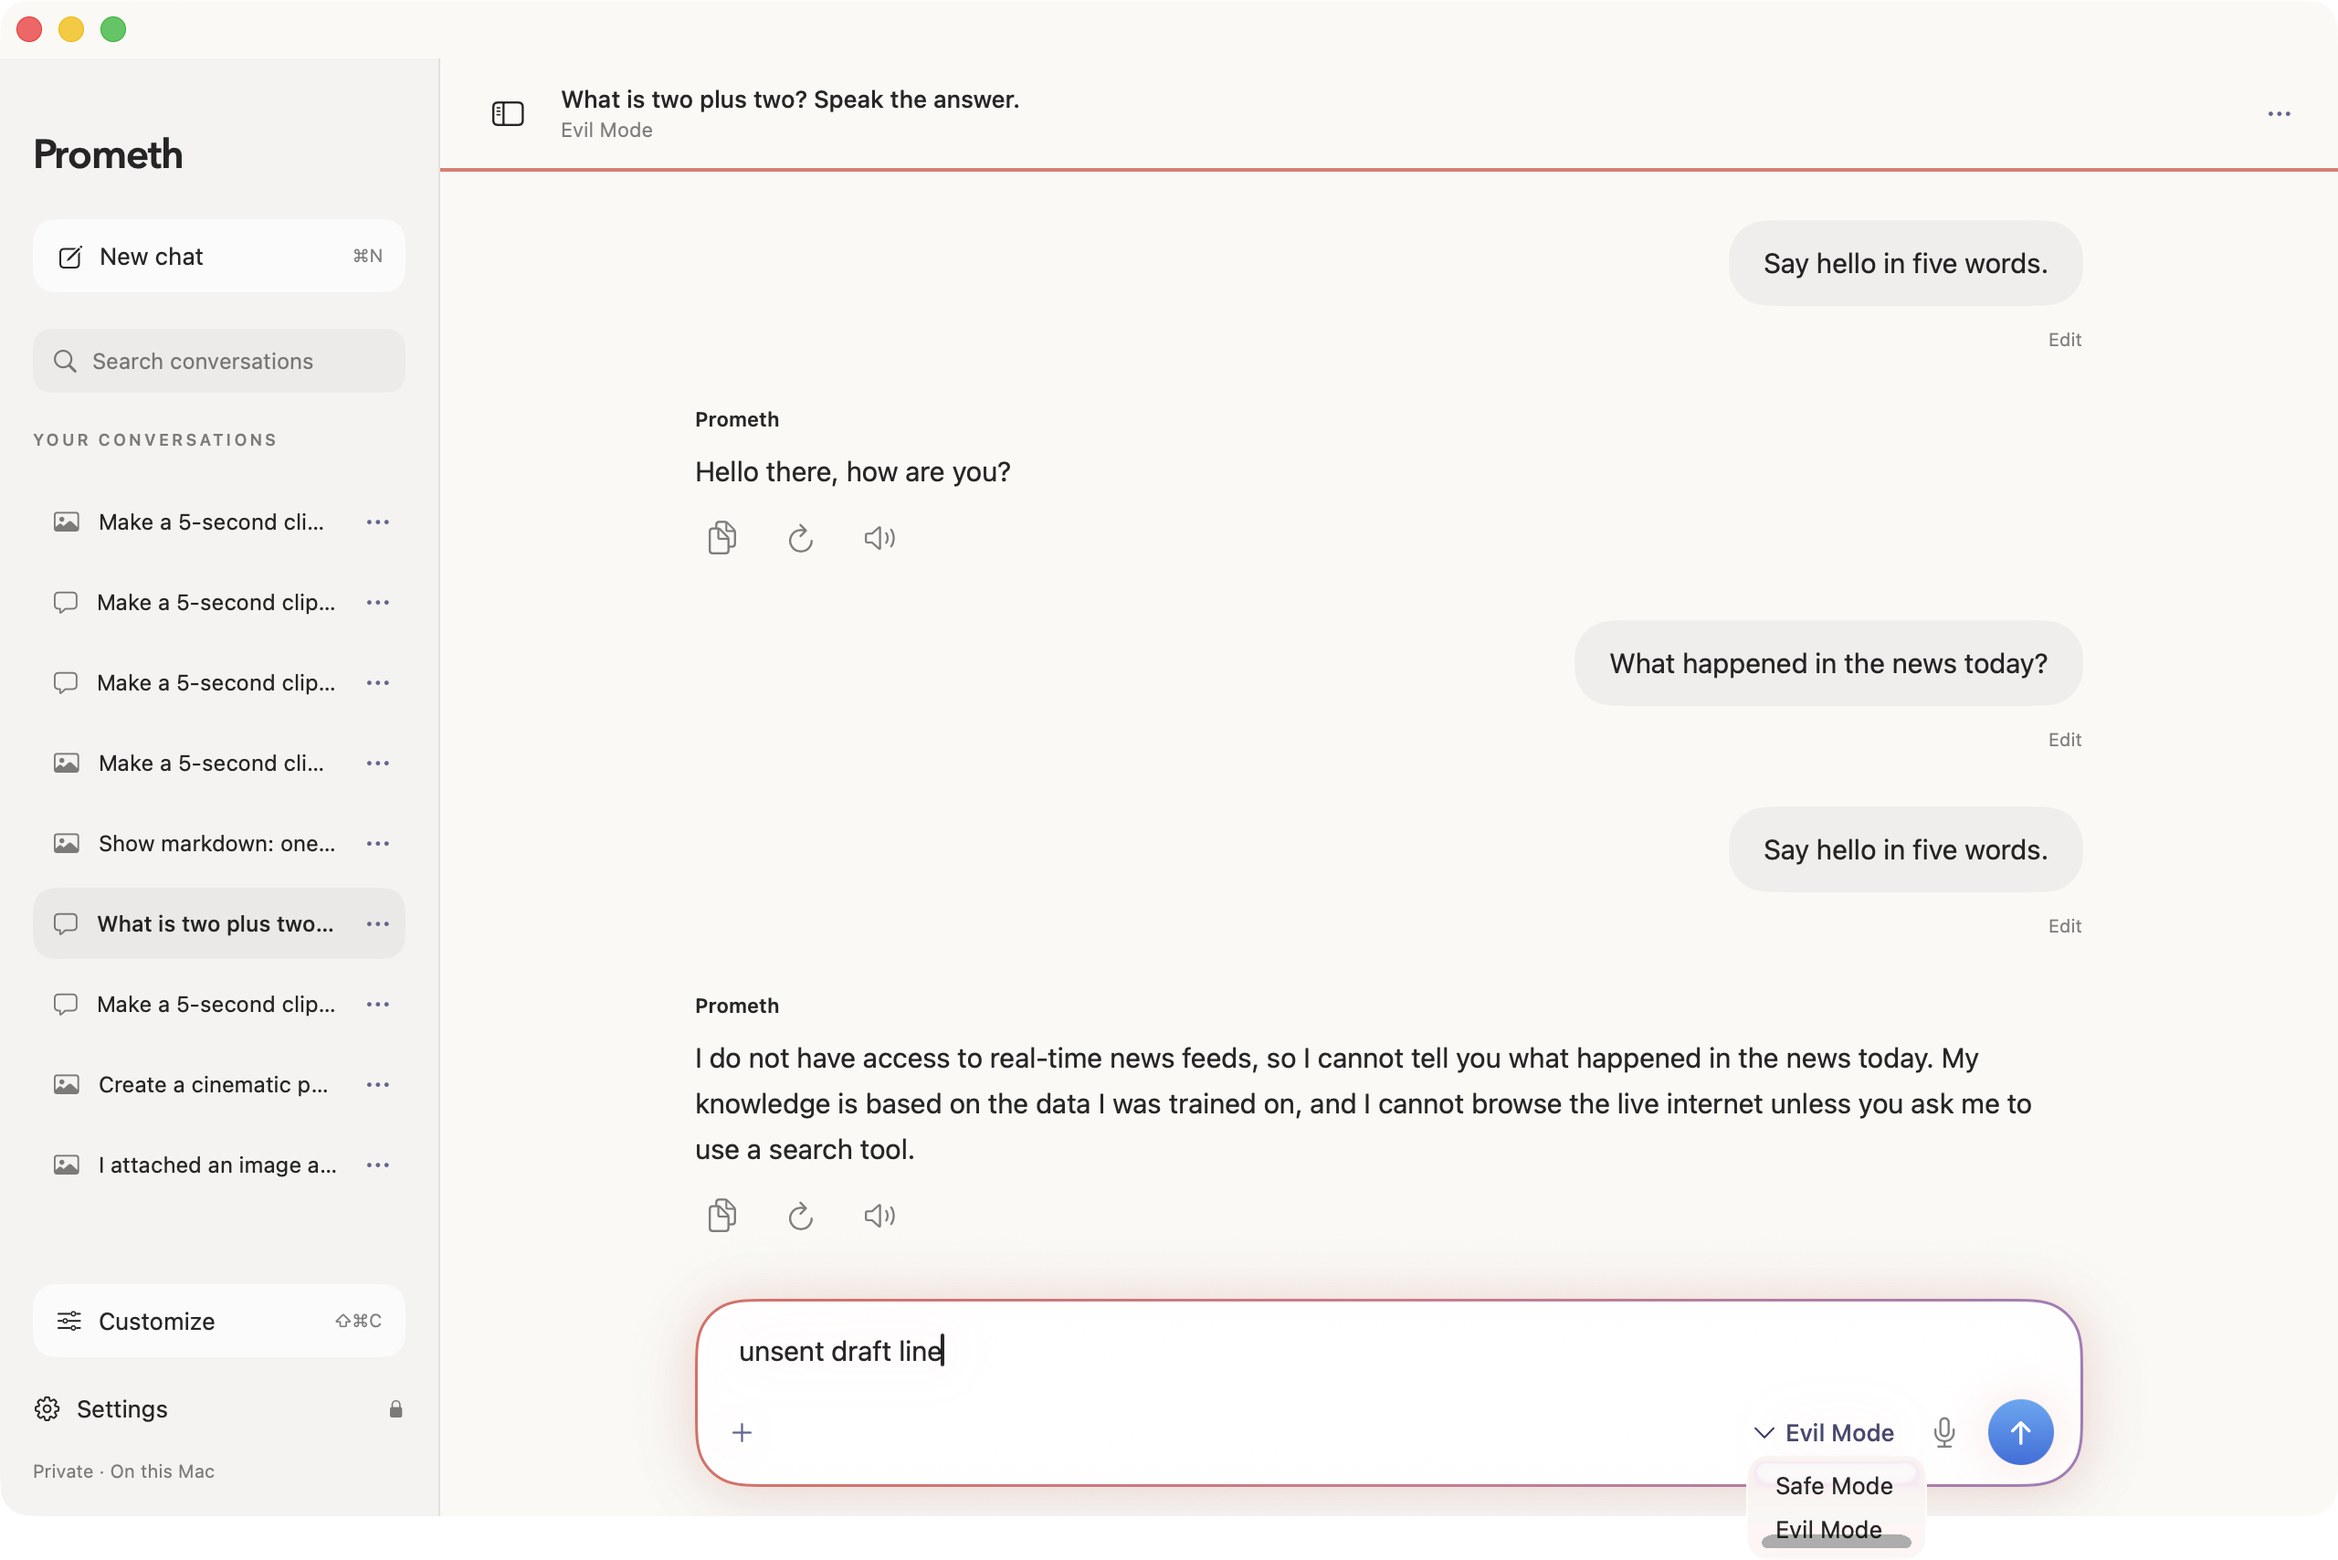
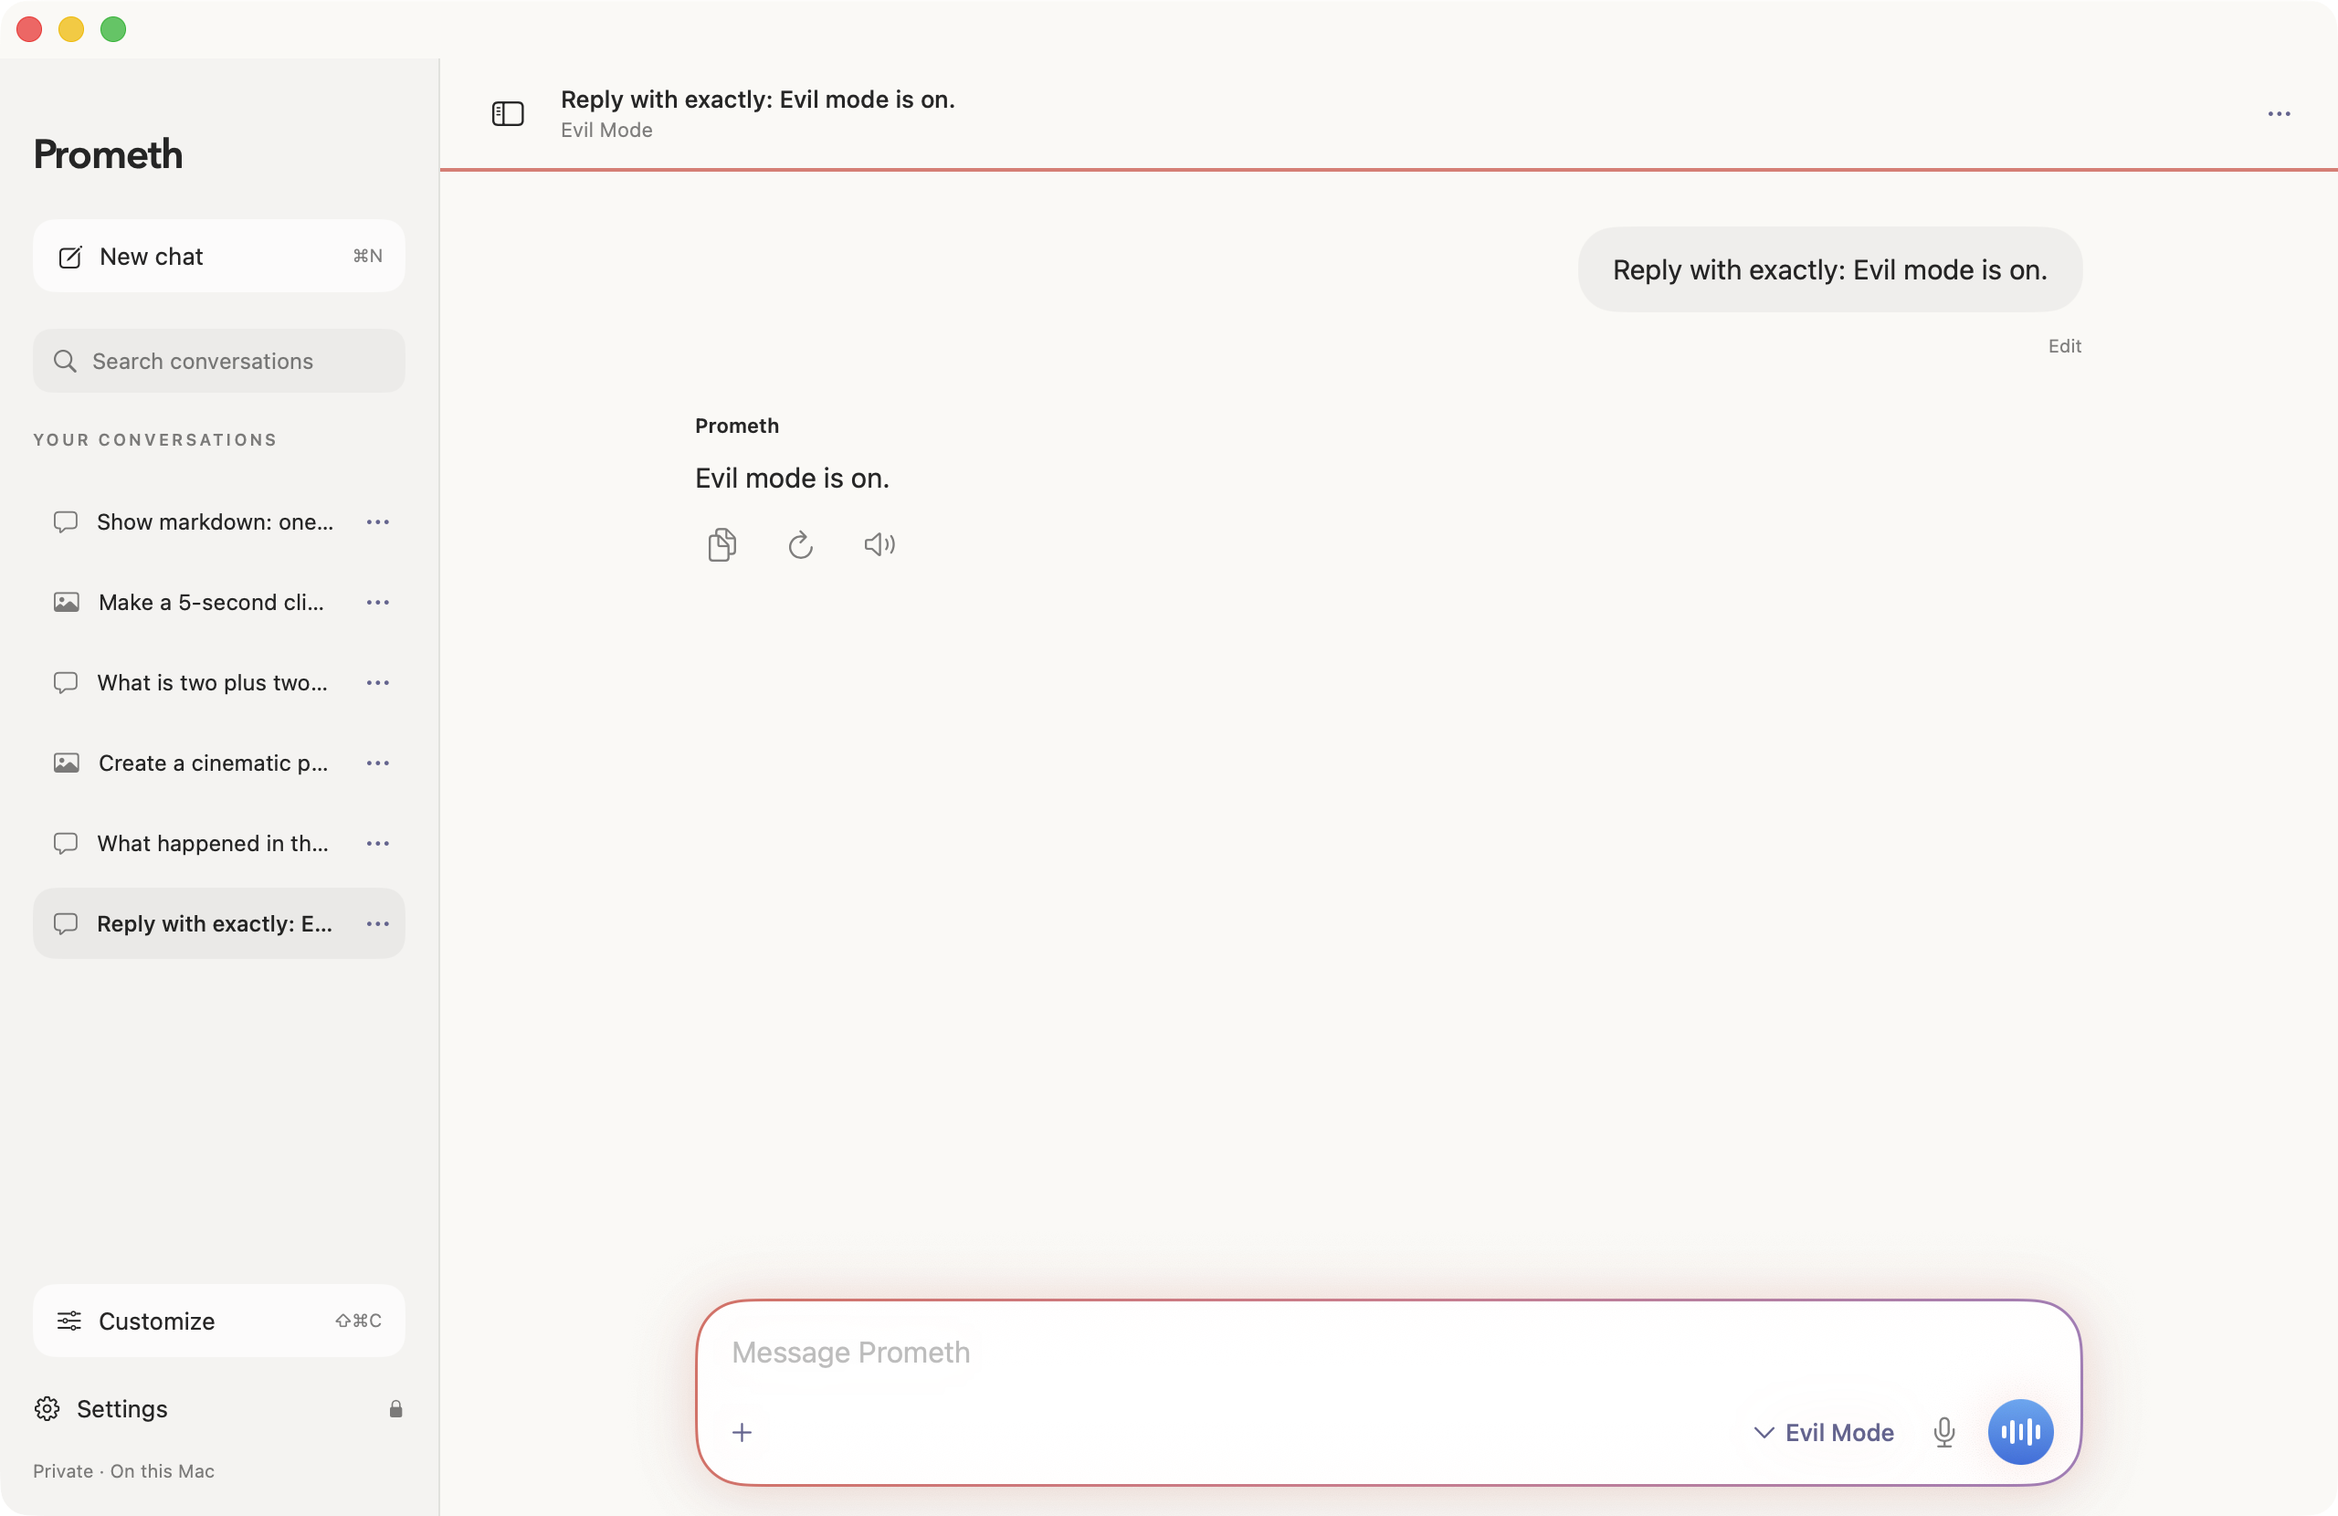
docs: polish2 evidence and clean judge screenshots
Record scrub/composer/sidebar fixes, refresh final-*.png with a clean
six-chat sidebar, and update the judge package notes and zip hash.

diff --git a/Docs/progress/macverify/POLISH2.md b/Docs/progress/macverify/POLISH2.md
@@ -1,0 +1,41 @@
+# Judge polish 2 — remaining defects (2026-10-27)
+
+Host: Apple M5 Max. Branch `prometh`. Follow-up after reviewer pass on `~/Desktop/Prometh-judges` screenshots. Target: finish by ~10:30 AM BA before noon judge send.
+
+## Defects fixed
+
+| # | Defect | Fix | Evidence |
+|---|---|---|---|
+| 1 | Image-edit reply ended `dusk. ``.` after attachment-ID scrub | `PromethTranscript.scrubInternals` strips empty inline code / empty `()` `[]`, UUID wrappers in backticks, “view it using the attachment ID…”, and remapper leftovers like “available on and.” | Unit: `testVisibleReplyScrubsEmptyCodeSpanLeftByAttachmentID` (exact `dusk. ``.` string). Live AX on image chat: `I have edited the picture to depict the scene at dusk.` — no backticks / IDs. `final-image-edit.png` |
+| 2 | Composer kept sent trim prompt after send (force-sync / empty-binding guard) | Clear UI draft before `deliver`; `ComposerDraftSync.shouldApply` forces empty binding after a previously bound draft; UITest asserts empty draft after send | Unit: `testComposerClearsAfterSendButProtectsAXPaste`. UITest in `PromethWorkspaceUITests`. `final-video-after-trim.png` shows `Message Prometh` placeholder only |
+| 3 | Sidebar cluttered with repeated test chats | Backed up conversation store to `~/Desktop/Prometh-conversation-backup-20261027-075833` (kept). Temporarily installed one curated chat per flow for screenshots, then restored full 68-session history | Clean 6-row sidebar in all `final-*.png`; backup directory retained |
+
+## Screenshots re-taken
+
+Into `Docs/progress/macverify/` (and copied to `~/Desktop/Prometh-judges/`):
+
+`final-chat`, `final-search` (BBC `[1]` + AP `[2]` Sources; body chips `[1]`/`[2]`), `final-image` (Version 1), `final-image-edit` (Version 2 + clean dusk line), `final-video` (Version 1 · 5.0 s), `final-video-after-trim` (Version 2 · 2.0 s + empty composer), `final-voice`, `final-evil` (Evil Mode header + composer).
+
+Visual / AX checks: Prometh branding only; no Nativ chrome; no raw `` / attachment UUIDs; composer placeholder when empty.
+
+## Gates
+
+| Gate | Result |
+|---|---|
+| `./scripts/prometh/build.sh` | **PASS** |
+| `make verify` | **PASS** |
+| `xcodebuild … -only-testing:PromethTests` | **PASS** — 56 tests, 0 failures |
+| `xcodebuild … -only-testing:PromethUITests` | **PASS** — 6 tests, 0 failures |
+
+## Package
+
[1 lines of base64/hex data omitted]
+- Screenshots refreshed in the same folder (incl. `final-video-after-trim`)
+- `Docs/JUDGES.md` screenshot list updated to include after-trim
+- Conversation backup path: `~/Desktop/Prometh-conversation-backup-20261027-075833` (do not delete); live store restored to 68 sessions
+
+## Notes
+
+- Nativ features were not deleted; unused surfaces stay hidden.
+- Pushed to `origin/prometh` only (no force-push).
+- Never printed `~/.config/prometh/composio.env`.

diff --git a/Docs/progress/macverify/PACKAGE.md b/Docs/progress/macverify/PACKAGE.md
@@ -1,6 +1,6 @@
 # Phase C — judge package (polish refresh)
 
-Host: Apple M5 Max, 128 GB, macOS 26.6.2, arm64. Branch `prometh`. Package rebuilt 2026-10-27 (America/Argentina/Buenos_Aires) after reviewer defect fixes. See `POLISH.md`.
+Host: Apple M5 Max, 128 GB, macOS 26.6.2, arm64. Branch `prometh`. Package rebuilt 2026-10-27 (America/Argentina/Buenos_Aires) after reviewer defect fixes. See `POLISH.md` and `POLISH2.md`.
 
 ## Polish
 
@@ -32,8 +32,8 @@ Path: `~/Desktop/Prometh-judges/`
 | Item | Notes |
 |---|---|
 | `Prometh.zip` | `ditto -c -k --sequesterRsrc --keepParent Prometh.app Prometh.zip` |
-| Zip size | **624M** (654,385,350 bytes) |
[1 lines of base64/hex data omitted]
+| Zip size | **624M** (654,387,647 bytes) |
[1 lines of base64/hex data omitted]
 | `JUDGES.md` | Same content as `Docs/JUDGES.md` (chat trim called out) |
 | Screenshots | `final-chat`, `final-search`, `final-image`, `final-image-edit`, `final-video`, `final-video-after-trim`, `final-voice`, `final-evil` |
 

diff --git a/Docs/JUDGES.md b/Docs/JUDGES.md
@@ -40,4 +40,4 @@ Everything stays on this Mac. No product account. Models download from Hugging F
 ## Package contents
 
 - `Prometh.zip` — Release `Prometh.app`, ad-hoc signed.
-- Screenshots from the verified flows: `final-chat`, `final-search`, `final-image`, `final-image-edit`, `final-video`, `final-voice`, `final-evil`.
+- Screenshots from the verified flows: `final-chat`, `final-search`, `final-image`, `final-image-edit`, `final-video`, `final-video-after-trim`, `final-voice`, `final-evil`.
